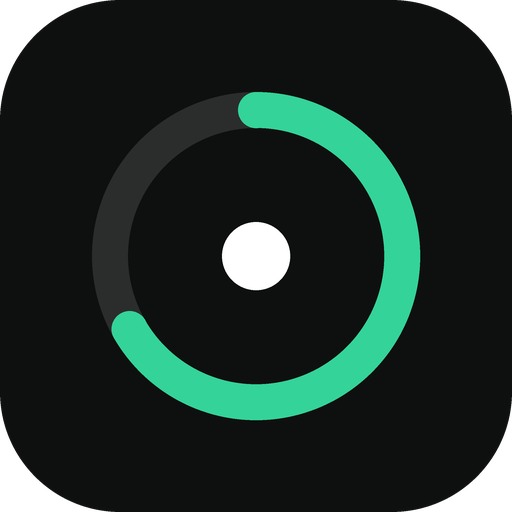
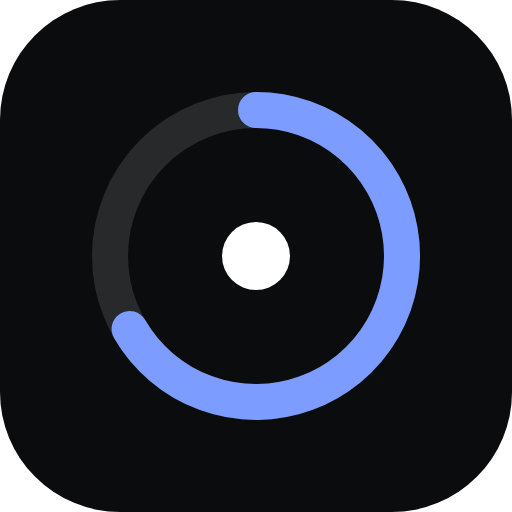
Graphite theme: remove lime everywhere, flat background, ion-blue accent
- New tokens (dark and light): flat graphite ground, hairline borders,
  one ion-blue accent, mint for ahead, slate instead of gold, no glow
- Toast button and checklist marks no longer hard-code lime
- Goal palette drops the olive-yellow (now teal); goals already saved in
  that colour show as teal when loaded
- App icons, theme-color and manifest updated to match
- Backlog/Goals/Completed switch no longer stretches on wide screens

Claude-Session: https://claude.ai/code/session_01H7Hhpom9cd3mWTAFGQxHBG

Changed region(s): [[0.2188, 0.1562, 0.8438, 0.8438]]

diff --git a/apps/web/src/styles.css b/apps/web/src/styles.css
@@ -1,44 +1,45 @@
-/* Six Months — "Midnight" design system.
-   Dark first, one lime accent that means done / go. Light mode uses the same rules.
+/* Six Months — "Graphite" design system.
+   Dark first: flat graphite, hairline borders, one cool ion-blue accent that means go / done.
+   No glow. Light mode uses the same rules.
    Theme: follows the device unless Settings sets html[data-theme="dark" | "light"]. */
 
 :root {
   color-scheme: light;
-  --ground: #f3f3ef;
+  --ground: #f4f5f7;
   --surface: #ffffff;
-  --surface-2: #fafaf7;
-  --fill: rgba(11, 11, 12, 0.05);
-  --fill-strong: rgba(11, 11, 12, 0.085);
-  --ink: #0b0b0c;
-  --ink-2: rgba(11, 11, 12, 0.72);
-  --muted: rgba(11, 11, 12, 0.6);
-  --faint: rgba(11, 11, 12, 0.36);
-  --line: rgba(11, 11, 12, 0.08);
-  --line-2: rgba(11, 11, 12, 0.05);
-  --border-strong: rgba(11, 11, 12, 0.18);
-  --track: rgba(11, 11, 12, 0.08);
+  --surface-2: #f9fafb;
+  --fill: rgba(13, 15, 20, 0.05);
+  --fill-strong: rgba(13, 15, 20, 0.085);
+  --ink: #0d0f14;
+  --ink-2: rgba(13, 15, 20, 0.72);
+  --muted: rgba(13, 15, 20, 0.58);
+  --faint: rgba(13, 15, 20, 0.36);
+  --line: rgba(13, 15, 20, 0.08);
+  --line-2: rgba(13, 15, 20, 0.05);
+  --border-strong: rgba(13, 15, 20, 0.18);
+  --track: rgba(13, 15, 20, 0.08);
   --glass: rgba(255, 255, 255, 0.74);
-  --accent: #c8f23a;
-  --accent-ink: #4a6b00;
-  --accent-soft: rgba(150, 200, 0, 0.16);
-  --on-accent: #0a0b05;
-  --amber: #b86e00;
-  --amber-ink: #8a5200;
-  --amber-soft: rgba(255, 170, 40, 0.16);
-  --amber-bar: #f0a531;
-  --amber-line: rgba(200, 120, 0, 0.3);
-  --blue: #3f4fe0;
-  --blue-ink: #2f3cc0;
-  --blue-soft: rgba(80, 96, 255, 0.12);
-  --gold: #e9a93a;
-  --gold-soft: rgba(240, 180, 60, 0.16);
-  --gold-ink: #6b5310;
+  --accent: #4466ff;
+  --accent-ink: #2a46d6;
+  --accent-soft: rgba(68, 102, 255, 0.11);
+  --on-accent: #ffffff;
+  --amber: #b5651d;
+  --amber-ink: #8f4d10;
+  --amber-soft: rgba(232, 145, 63, 0.15);
+  --amber-bar: #e8913f;
+  --amber-line: rgba(181, 101, 29, 0.3);
+  --blue: #0f8f75;
+  --blue-ink: #0b6e5a;
+  --blue-soft: rgba(15, 143, 117, 0.12);
+  --gold: #6b7a93;
+  --gold-soft: rgba(107, 122, 147, 0.14);
+  --gold-ink: #4a5568;
   --violet-soft: rgba(139, 108, 246, 0.14);
   --violet-ink: #5b3fa0;
   --danger: #d0342c;
   --danger-soft: rgba(208, 52, 44, 0.1);
   --toast-bg: #1c1d20;
-  --glow: rgba(170, 220, 30, 0.1);
+  --glow: transparent;
   --shadow-1: 0 1px 2px rgba(0, 0, 0, 0.04), 0 12px 32px -18px rgba(0, 0, 0, 0.16);
   --shadow-2: 0 18px 40px -18px rgba(0, 0, 0, 0.28);
   --shadow-3: 0 24px 60px -20px rgba(0, 0, 0, 0.35);
@@ -71,40 +72,41 @@
 @media (prefers-color-scheme: dark) {
   :root:not([data-theme='light']) {
     color-scheme: dark;
-    --ground: #08090a;
-    --surface: #111214;
-    --surface-2: #151619;
-    --fill: rgba(255, 255, 255, 0.05);
-    --fill-strong: rgba(255, 255, 255, 0.09);
-    --ink: #f4f4f1;
-    --ink-2: rgba(244, 244, 241, 0.68);
-    --muted: rgba(244, 244, 241, 0.5);
-    --faint: rgba(244, 244, 241, 0.3);
-    --line: rgba(255, 255, 255, 0.07);
-    --line-2: rgba(255, 255, 255, 0.045);
-    --border-strong: rgba(255, 255, 255, 0.16);
-    --track: rgba(255, 255, 255, 0.09);
-    --glass: rgba(24, 25, 28, 0.72);
-    --accent: #d4ff4f;
-    --accent-ink: #d4ff4f;
-    --accent-soft: rgba(212, 255, 79, 0.12);
-    --amber: #ffb547;
-    --amber-ink: #ffc56e;
-    --amber-soft: rgba(255, 181, 71, 0.13);
-    --amber-bar: #ffb547;
-    --amber-line: rgba(255, 181, 71, 0.3);
-    --blue: #a3aeff;
-    --blue-ink: #b8c1ff;
-    --blue-soft: rgba(163, 174, 255, 0.14);
-    --gold: #f2b544;
-    --gold-soft: rgba(242, 181, 68, 0.14);
-    --gold-ink: #f3cd7a;
+    --ground: #0b0c0e;
+    --surface: #121317;
+    --surface-2: #16181c;
+    --fill: rgba(255, 255, 255, 0.045);
+    --fill-strong: rgba(255, 255, 255, 0.08);
+    --ink: #eceef2;
+    --ink-2: rgba(236, 238, 242, 0.7);
+    --muted: rgba(236, 238, 242, 0.52);
+    --faint: rgba(236, 238, 242, 0.32);
+    --line: rgba(255, 255, 255, 0.06);
+    --line-2: rgba(255, 255, 255, 0.04);
+    --border-strong: rgba(255, 255, 255, 0.14);
+    --track: rgba(255, 255, 255, 0.08);
+    --glass: rgba(18, 19, 23, 0.78);
+    --accent: #7c9cff;
+    --accent-ink: #9db4ff;
+    --accent-soft: rgba(124, 156, 255, 0.14);
+    --on-accent: #0b0c0e;
+    --amber: #f0a860;
+    --amber-ink: #f5b97a;
+    --amber-soft: rgba(240, 168, 96, 0.13);
+    --amber-bar: #f0a860;
+    --amber-line: rgba(240, 168, 96, 0.3);
+    --blue: #6fd6bf;
+    --blue-ink: #8fe3cf;
+    --blue-soft: rgba(143, 227, 207, 0.13);
+    --gold: #a9b4c8;
+    --gold-soft: rgba(169, 180, 200, 0.14);
+    --gold-ink: #c5cede;
     --violet-soft: rgba(167, 139, 250, 0.15);
     --violet-ink: #c4b5fd;
     --danger: #ff6b5e;
     --danger-soft: rgba(255, 107, 94, 0.14);
-    --toast-bg: #26272b;
-    --glow: rgba(212, 255, 79, 0.08);
+    --toast-bg: #1f2126;
+    --glow: transparent;
     --shadow-1: 0 0 0 transparent;
     --shadow-2: 0 20px 50px -12px rgba(0, 0, 0, 0.8);
     --shadow-3: 0 24px 60px -16px rgba(0, 0, 0, 0.85);
@@ -112,40 +114,41 @@
 }
 :root[data-theme='dark'] {
   color-scheme: dark;
-  --ground: #08090a;
-  --surface: #111214;
-  --surface-2: #151619;
-  --fill: rgba(255, 255, 255, 0.05);
-  --fill-strong: rgba(255, 255, 255, 0.09);
-  --ink: #f4f4f1;
-  --ink-2: rgba(244, 244, 241, 0.68);
-  --muted: rgba(244, 244, 241, 0.5);
-  --faint: rgba(244, 244, 241, 0.3);
-  --line: rgba(255, 255, 255, 0.07);
-  --line-2: rgba(255, 255, 255, 0.045);
-  --border-strong: rgba(255, 255, 255, 0.16);
-  --track: rgba(255, 255, 255, 0.09);
-  --glass: rgba(24, 25, 28, 0.72);
-  --accent: #d4ff4f;
-  --accent-ink: #d4ff4f;
-  --accent-soft: rgba(212, 255, 79, 0.12);
-  --amber: #ffb547;
-  --amber-ink: #ffc56e;
-  --amber-soft: rgba(255, 181, 71, 0.13);
-  --amber-bar: #ffb547;
-  --amber-line: rgba(255, 181, 71, 0.3);
-  --blue: #a3aeff;
-  --blue-ink: #b8c1ff;
-  --blue-soft: rgba(163, 174, 255, 0.14);
-  --gold: #f2b544;
-  --gold-soft: rgba(242, 181, 68, 0.14);
-  --gold-ink: #f3cd7a;
+  --ground: #0b0c0e;
+  --surface: #121317;
+  --surface-2: #16181c;
+  --fill: rgba(255, 255, 255, 0.045);
+  --fill-strong: rgba(255, 255, 255, 0.08);
+  --ink: #eceef2;
+  --ink-2: rgba(236, 238, 242, 0.7);
+  --muted: rgba(236, 238, 242, 0.52);
+  --faint: rgba(236, 238, 242, 0.32);
+  --line: rgba(255, 255, 255, 0.06);
+  --line-2: rgba(255, 255, 255, 0.04);
+  --border-strong: rgba(255, 255, 255, 0.14);
+  --track: rgba(255, 255, 255, 0.08);
+  --glass: rgba(18, 19, 23, 0.78);
+  --accent: #7c9cff;
+  --accent-ink: #9db4ff;
+  --accent-soft: rgba(124, 156, 255, 0.14);
+  --on-accent: #0b0c0e;
+  --amber: #f0a860;
+  --amber-ink: #f5b97a;
+  --amber-soft: rgba(240, 168, 96, 0.13);
+  --amber-bar: #f0a860;
+  --amber-line: rgba(240, 168, 96, 0.3);
+  --blue: #6fd6bf;
+  --blue-ink: #8fe3cf;
+  --blue-soft: rgba(143, 227, 207, 0.13);
+  --gold: #a9b4c8;
+  --gold-soft: rgba(169, 180, 200, 0.14);
+  --gold-ink: #c5cede;
   --violet-soft: rgba(167, 139, 250, 0.15);
   --violet-ink: #c4b5fd;
   --danger: #ff6b5e;
   --danger-soft: rgba(255, 107, 94, 0.14);
-  --toast-bg: #26272b;
-  --glow: rgba(212, 255, 79, 0.08);
+  --toast-bg: #1f2126;
+  --glow: transparent;
   --shadow-1: 0 0 0 transparent;
   --shadow-2: 0 20px 50px -12px rgba(0, 0, 0, 0.8);
   --shadow-3: 0 24px 60px -16px rgba(0, 0, 0, 0.85);
@@ -622,7 +625,7 @@ input[type='number']::-webkit-inner-spin-button, input[type='number']::-webkit-o
   animation: toast-in 0.35s var(--spring);
 }
 .toast span:only-child { padding-right: 13px; }
-.toast button { background: #d4ff4f; border: 0; color: #0a0b05; font-weight: 600; cursor: pointer; min-height: 34px; padding: 0 16px; border-radius: 999px; }
+.toast button { background: var(--accent); border: 0; color: var(--on-accent); font-weight: 600; cursor: pointer; min-height: 34px; padding: 0 16px; border-radius: 999px; }
 .banner { border-radius: 18px; padding: 12px 16px; font-size: 13.5px; display: flex; gap: 10px; align-items: center; justify-content: space-between; }
 .banner.warn { background: var(--amber-soft); color: var(--amber-ink); }
 .banner.info { background: var(--fill); color: var(--ink-2); }
@@ -804,7 +807,7 @@ button.day-cell { border: 0; cursor: pointer; font: inherit; color: var(--ink); 
 .chain-card.empty { border-style: dashed; background: transparent; box-shadow: none; }
 
 /* ---------- Goal backlog ---------- */
-.goals-switch { flex: none; }
+.goals-switch { flex: none; align-self: flex-start; width: fit-content; max-width: 100%; }
 .goals-switch a { display: inline-flex; align-items: center; justify-content: center; gap: 6px; min-height: 36px; padding: 0 14px; border-radius: 999px; font-size: 13.5px; font-weight: 600; color: var(--muted); text-decoration: none; white-space: nowrap; }
 .goals-switch a:hover { color: var(--ink); }
 .goals-switch a[aria-current='page'] { background: var(--ink); color: var(--ground); }
@@ -846,7 +849,7 @@ button.day-cell { border: 0; cursor: pointer; font: inherit; color: var(--ink); 
 .ready-item { display: flex; align-items: center; gap: 10px; font-size: 14px; color: var(--ink-2); min-height: 28px; }
 .ready-item.ok { color: var(--ink); }
 .ready-mark { width: 20px; height: 20px; border-radius: 50%; border: 1.5px solid var(--border-strong, var(--line)); display: inline-flex; align-items: center; justify-content: center; flex: none; }
-.ready-item.ok .ready-mark { background: var(--accent); border-color: var(--accent); color: var(--accent-contrast, #0a0b05); }
+.ready-item.ok .ready-mark { background: var(--accent); border-color: var(--accent); color: var(--on-accent); }
 
 /* ---------- Weekly review ---------- */
 .review-goal { display: flex; flex-wrap: wrap; align-items: center; justify-content: space-between; gap: 8px 14px; padding: 12px 0; border-top: 1px solid var(--line); }

diff --git a/apps/web/src/data/seed.ts b/apps/web/src/data/seed.ts
@@ -90,11 +90,11 @@ export function buildDemoData(): AppData {
   const guitar = goal({ title: 'Comfortable on guitar', type: 'practice', color: '#FF7A45', why: 'Play for myself at the end of the day.', done_means: '3 songs recorded start to finish' });
   const splits = goal({ title: 'Near full splits', type: 'practice', color: '#E8559B', why: 'Move without stiffness.', done_means: 'Under 3 in from the floor' });
   const career = goal({ title: 'Land a product role', type: 'practice', color: '#8B6CF6', why: 'Work on AI products I care about.', done_means: 'Signed offer' });
-  const jhu = goal({ title: 'JHU AI certificate', type: 'finish', color: '#C9A227', why: 'Credibility for AI product roles.', done_means: 'All modules passed' });
-  const aigp = goal({ title: 'Pass the AIGP exam', type: 'finish', color: '#C9A227', why: 'AI governance credibility.', done_means: 'Exam passed' });
+  const jhu = goal({ title: 'JHU AI certificate', type: 'finish', color: '#3FB6C9', why: 'Credibility for AI product roles.', done_means: 'All modules passed' });
+  const aigp = goal({ title: 'Pass the AIGP exam', type: 'finish', color: '#3FB6C9', why: 'AI governance credibility.', done_means: 'Exam passed' });
   // A goal already finished early in the plan, so Completed has something to show.
   const finishedAt = `${addDays(today, -2)}T18:00:00.000Z`;
-  const course = goal({ title: 'Finish the agents course', type: 'finish', color: '#3FB6C9', why: 'Hands-on with agents and evals.', done_means: 'All lessons and the capstone done', completed_at: finishedAt, completion_note: 'Done two weeks early. Short evening sessions worked better than weekend marathons.' });
+  const course = goal({ title: 'Finish the agents course', type: 'finish', color: '#94A3B8', why: 'Hands-on with agents and evals.', done_means: 'All lessons and the capstone done', completed_at: finishedAt, completion_note: 'Done two weeks early. Short evening sessions worked better than weekend marathons.' });
   data.goals = [weight, strength, guitar, splits, career, jhu, aigp, course];
   data.planGoals = [
     ...[weight, strength, guitar, splits, career, jhu, course].map((g) => ({ id: id(), plan_id: plan.id, goal_id: g.id })),

diff --git a/apps/web/src/data/supabase.ts b/apps/web/src/data/supabase.ts
@@ -1,7 +1,7 @@
 import { createClient, type SupabaseClient } from '@supabase/supabase-js';
 import type { Db } from './db.ts';
 import { SaveError } from './db.ts';
-import { COLLECTIONS, TABLES, defaultProfile, emptyData, type AppData, type Op } from './model.ts';
+import { COLLECTIONS, TABLES, defaultProfile, emptyData, normalizeData, type AppData, type Op } from './model.ts';
 
 const url = import.meta.env.VITE_SUPABASE_URL as string | undefined;
 const anonKey = import.meta.env.VITE_SUPABASE_ANON_KEY as string | undefined;
@@ -128,7 +128,7 @@ export function createSupabaseDb(sb: SupabaseClient, userId: string): Db {
         if (insertError) throw new Error(`profiles: ${insertError.message}`);
         data.profile = fresh;
       }
-      return data;
+      return normalizeData(data);
     },
 
     async apply(op: Op): Promise<void> {

diff --git a/apps/web/src/data/model.ts b/apps/web/src/data/model.ts
@@ -67,6 +67,15 @@ export const TABLES: Record<CollectionKey, string> = {
 
 export const COLLECTIONS = Object.keys(TABLES) as CollectionKey[];
 
+/** Colours retired from the palette, shown as their replacement (the olive-yellow became teal). */
+const RETIRED_COLORS: Record<string, string> = { '#c9a227': '#3FB6C9' };
+
+/** Tidy loaded data for display: retired goal colours are swapped for their replacement. */
+export function normalizeData(data: AppData): AppData {
+  if (!data.goals.some((g) => RETIRED_COLORS[g.color?.toLowerCase()])) return data;
+  return { ...data, goals: data.goals.map((g) => (RETIRED_COLORS[g.color?.toLowerCase()] ? { ...g, color: RETIRED_COLORS[g.color.toLowerCase()]! } : g)) };
+}
+
 export function defaultProfile(): Profile {
   return {
     display_name: '',

diff --git a/apps/web/index.html b/apps/web/index.html
@@ -3,8 +3,8 @@
   <head>
     <meta charset="UTF-8" />
     <meta name="viewport" content="width=device-width, initial-scale=1, viewport-fit=cover" />
-    <meta name="theme-color" content="#F6F6F3" media="(prefers-color-scheme: light)" />
-    <meta name="theme-color" content="#0A0B0B" media="(prefers-color-scheme: dark)" />
+    <meta name="theme-color" content="#F4F5F7" media="(prefers-color-scheme: light)" />
+    <meta name="theme-color" content="#0B0C0E" media="(prefers-color-scheme: dark)" />
     <meta name="color-scheme" content="light dark" />
     <meta name="apple-mobile-web-app-capable" content="yes" />
     <meta name="apple-mobile-web-app-status-bar-style" content="default" />

diff --git a/apps/web/src/data/local.ts b/apps/web/src/data/local.ts
@@ -1,5 +1,5 @@
 import type { Db } from './db.ts';
-import { applyOp, emptyData, type AppData, type Op } from './model.ts';
+import { applyOp, emptyData, normalizeData, type AppData, type Op } from './model.ts';
 import { buildDemoData } from './seed.ts';
 
 const KEY = 'six.demo.v1';
@@ -7,7 +7,7 @@ const KEY = 'six.demo.v1';
 function read(): AppData | null {
   try {
     const raw = localStorage.getItem(KEY);
-    return raw ? ({ ...emptyData(), ...JSON.parse(raw) } as AppData) : null;
+    return raw ? normalizeData({ ...emptyData(), ...JSON.parse(raw) } as AppData) : null;
   } catch {
     return null;
   }

diff --git a/apps/web/src/components/ui.tsx b/apps/web/src/components/ui.tsx
@@ -226,6 +226,7 @@ export function NumberInput({
 export const WEEKDAY_LETTERS = ['M', 'T', 'W', 'T', 'F', 'S', 'S'];
 export const WEEKDAY_NAMES = ['Mon', 'Tue', 'Wed', 'Thu', 'Fri', 'Sat', 'Sun'];
 
-export const GOAL_COLORS = ['#5B8CFF', '#22B07D', '#FF7A45', '#E8559B', '#8B6CF6', '#C9A227'];
+// Goal colours: clear on graphite and on white, no yellow or lime.
+export const GOAL_COLORS = ['#5B8CFF', '#22B07D', '#FF7A45', '#E8559B', '#8B6CF6', '#3FB6C9'];
 
 export const OBSTACLES = ['Time', 'Energy', 'Schedule', 'Unclear task'];

diff --git a/apps/web/src/screens/StudyLog.tsx b/apps/web/src/screens/StudyLog.tsx
@@ -97,7 +97,7 @@ export function StudyLog({ id }: { id: string }) {
               cy="95"
               r={r}
               fill="none"
-              stroke={goals[0]?.color ?? '#C9A227'}
+              stroke={goals[0]?.color ?? '#7C9CFF'}
               strokeWidth="12"
               strokeLinecap="round"
               strokeDasharray={circumference}
